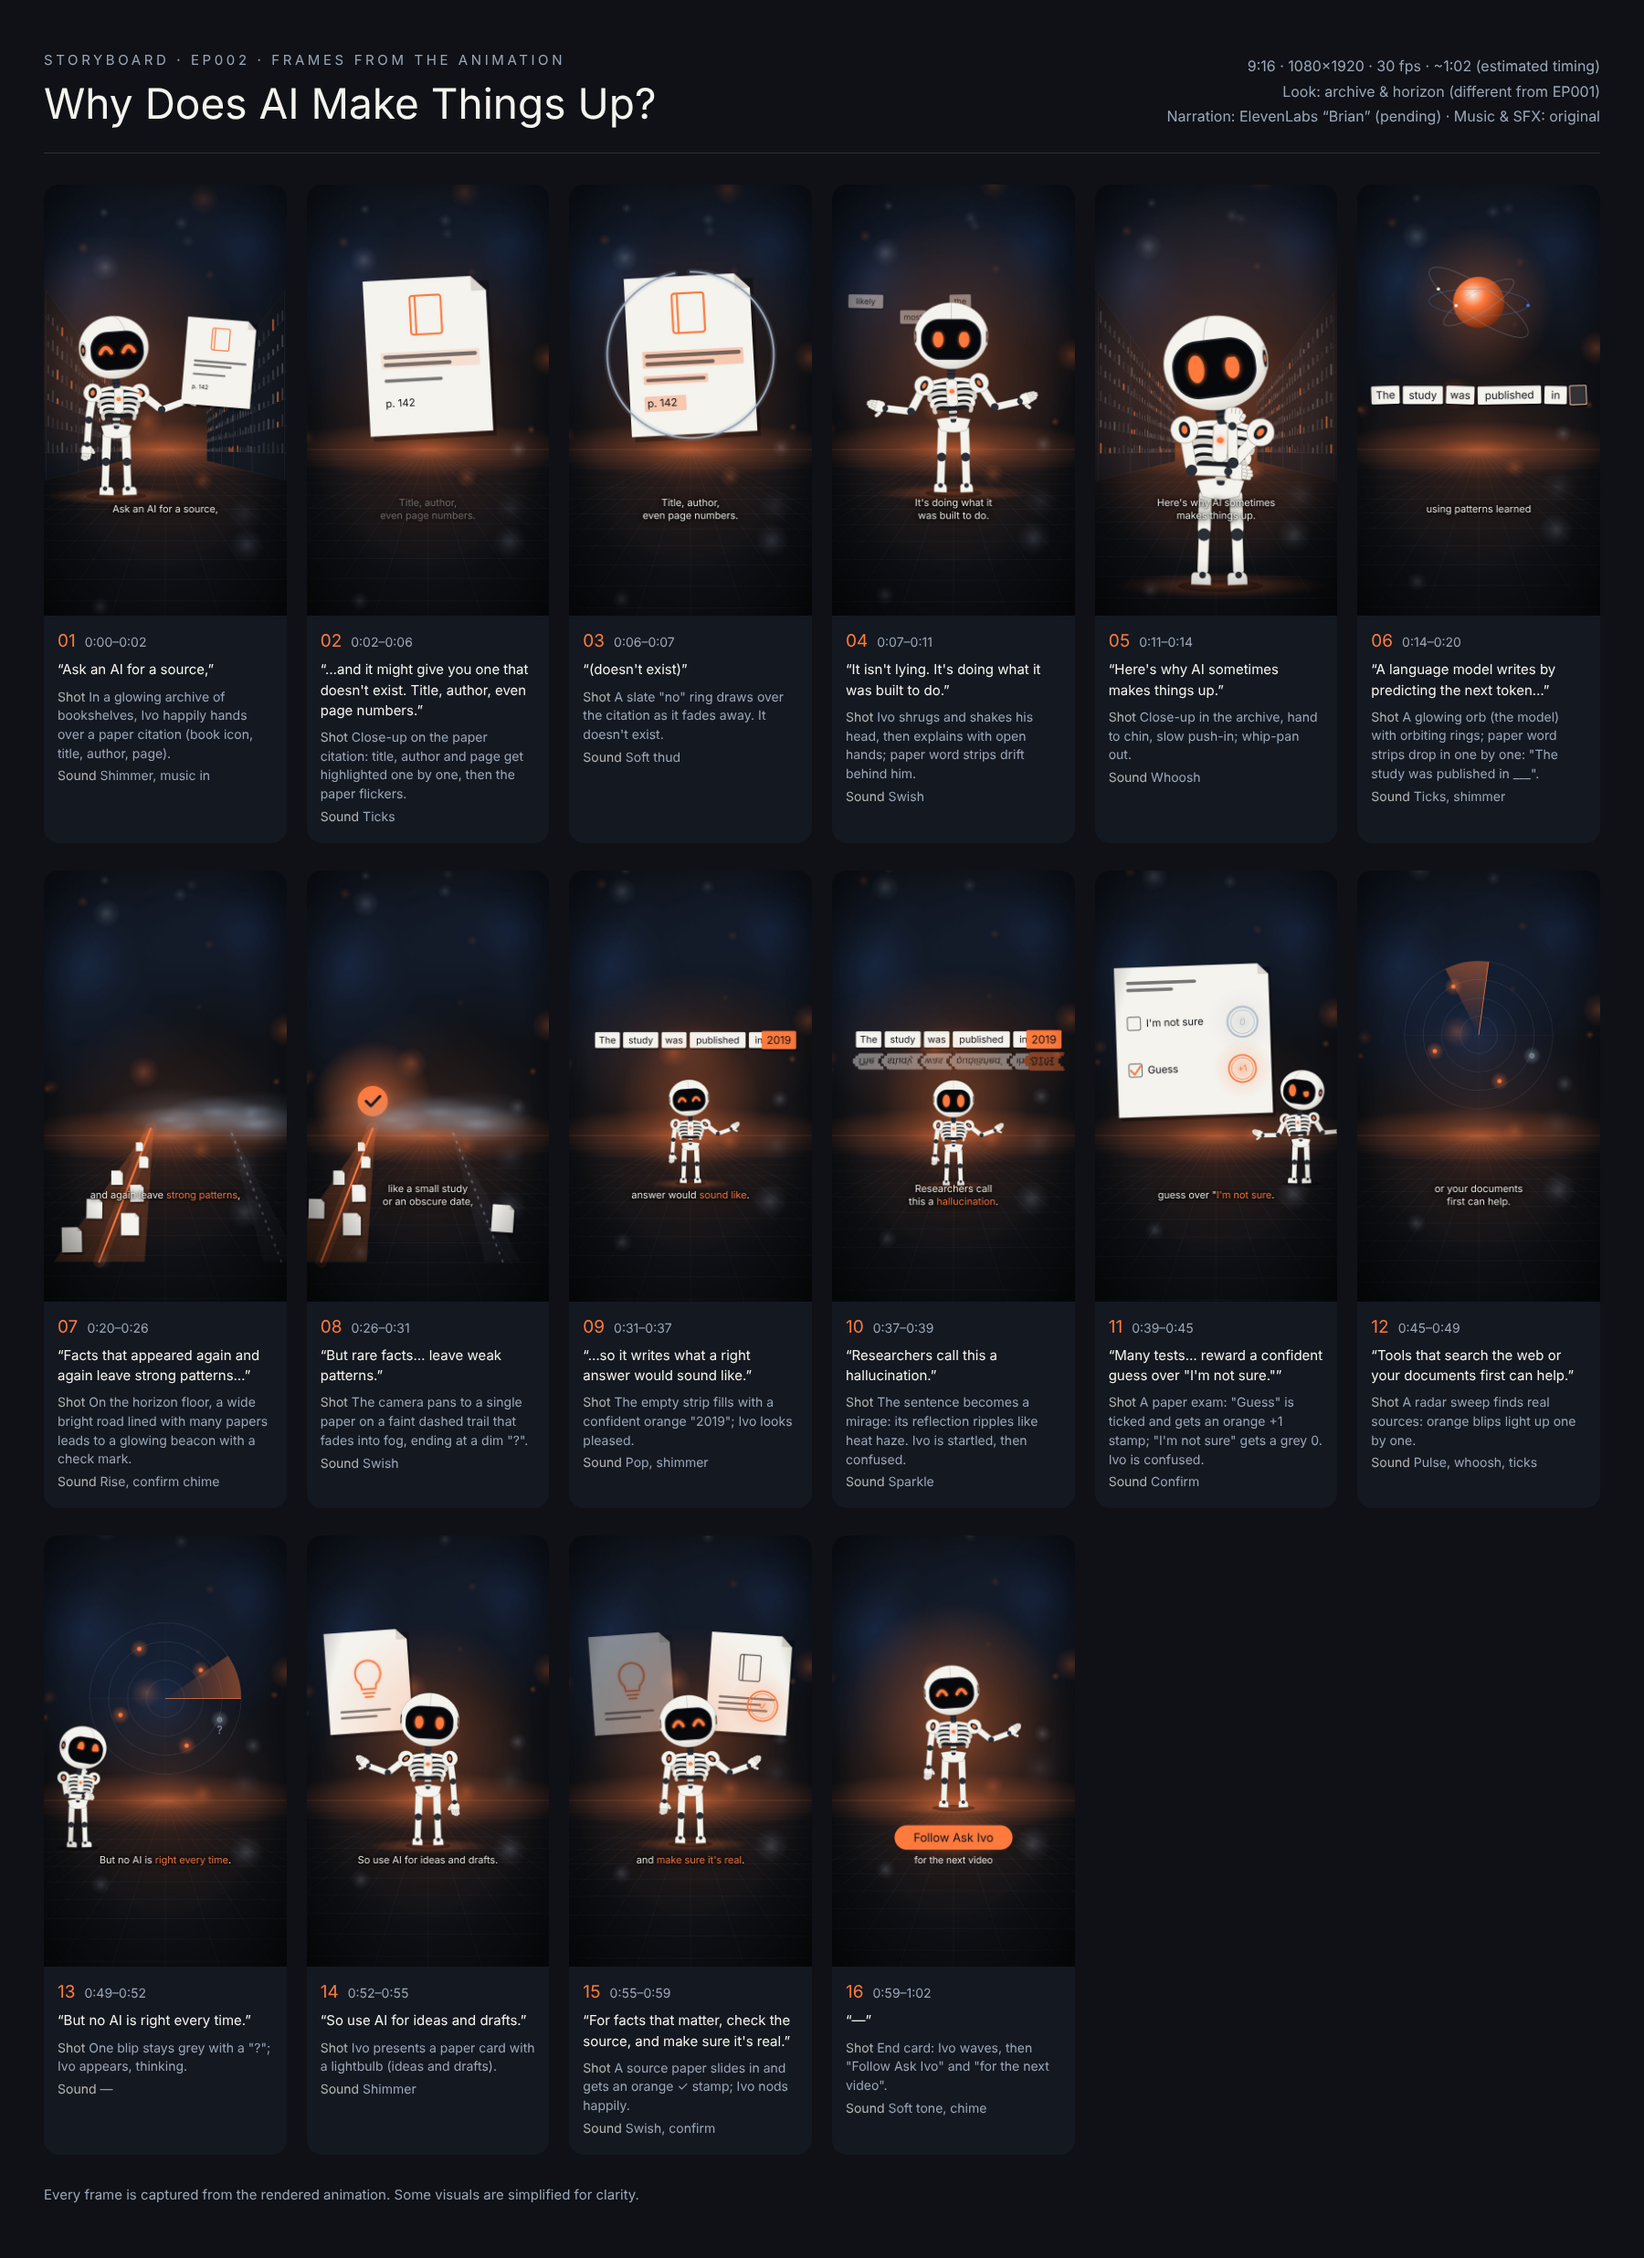
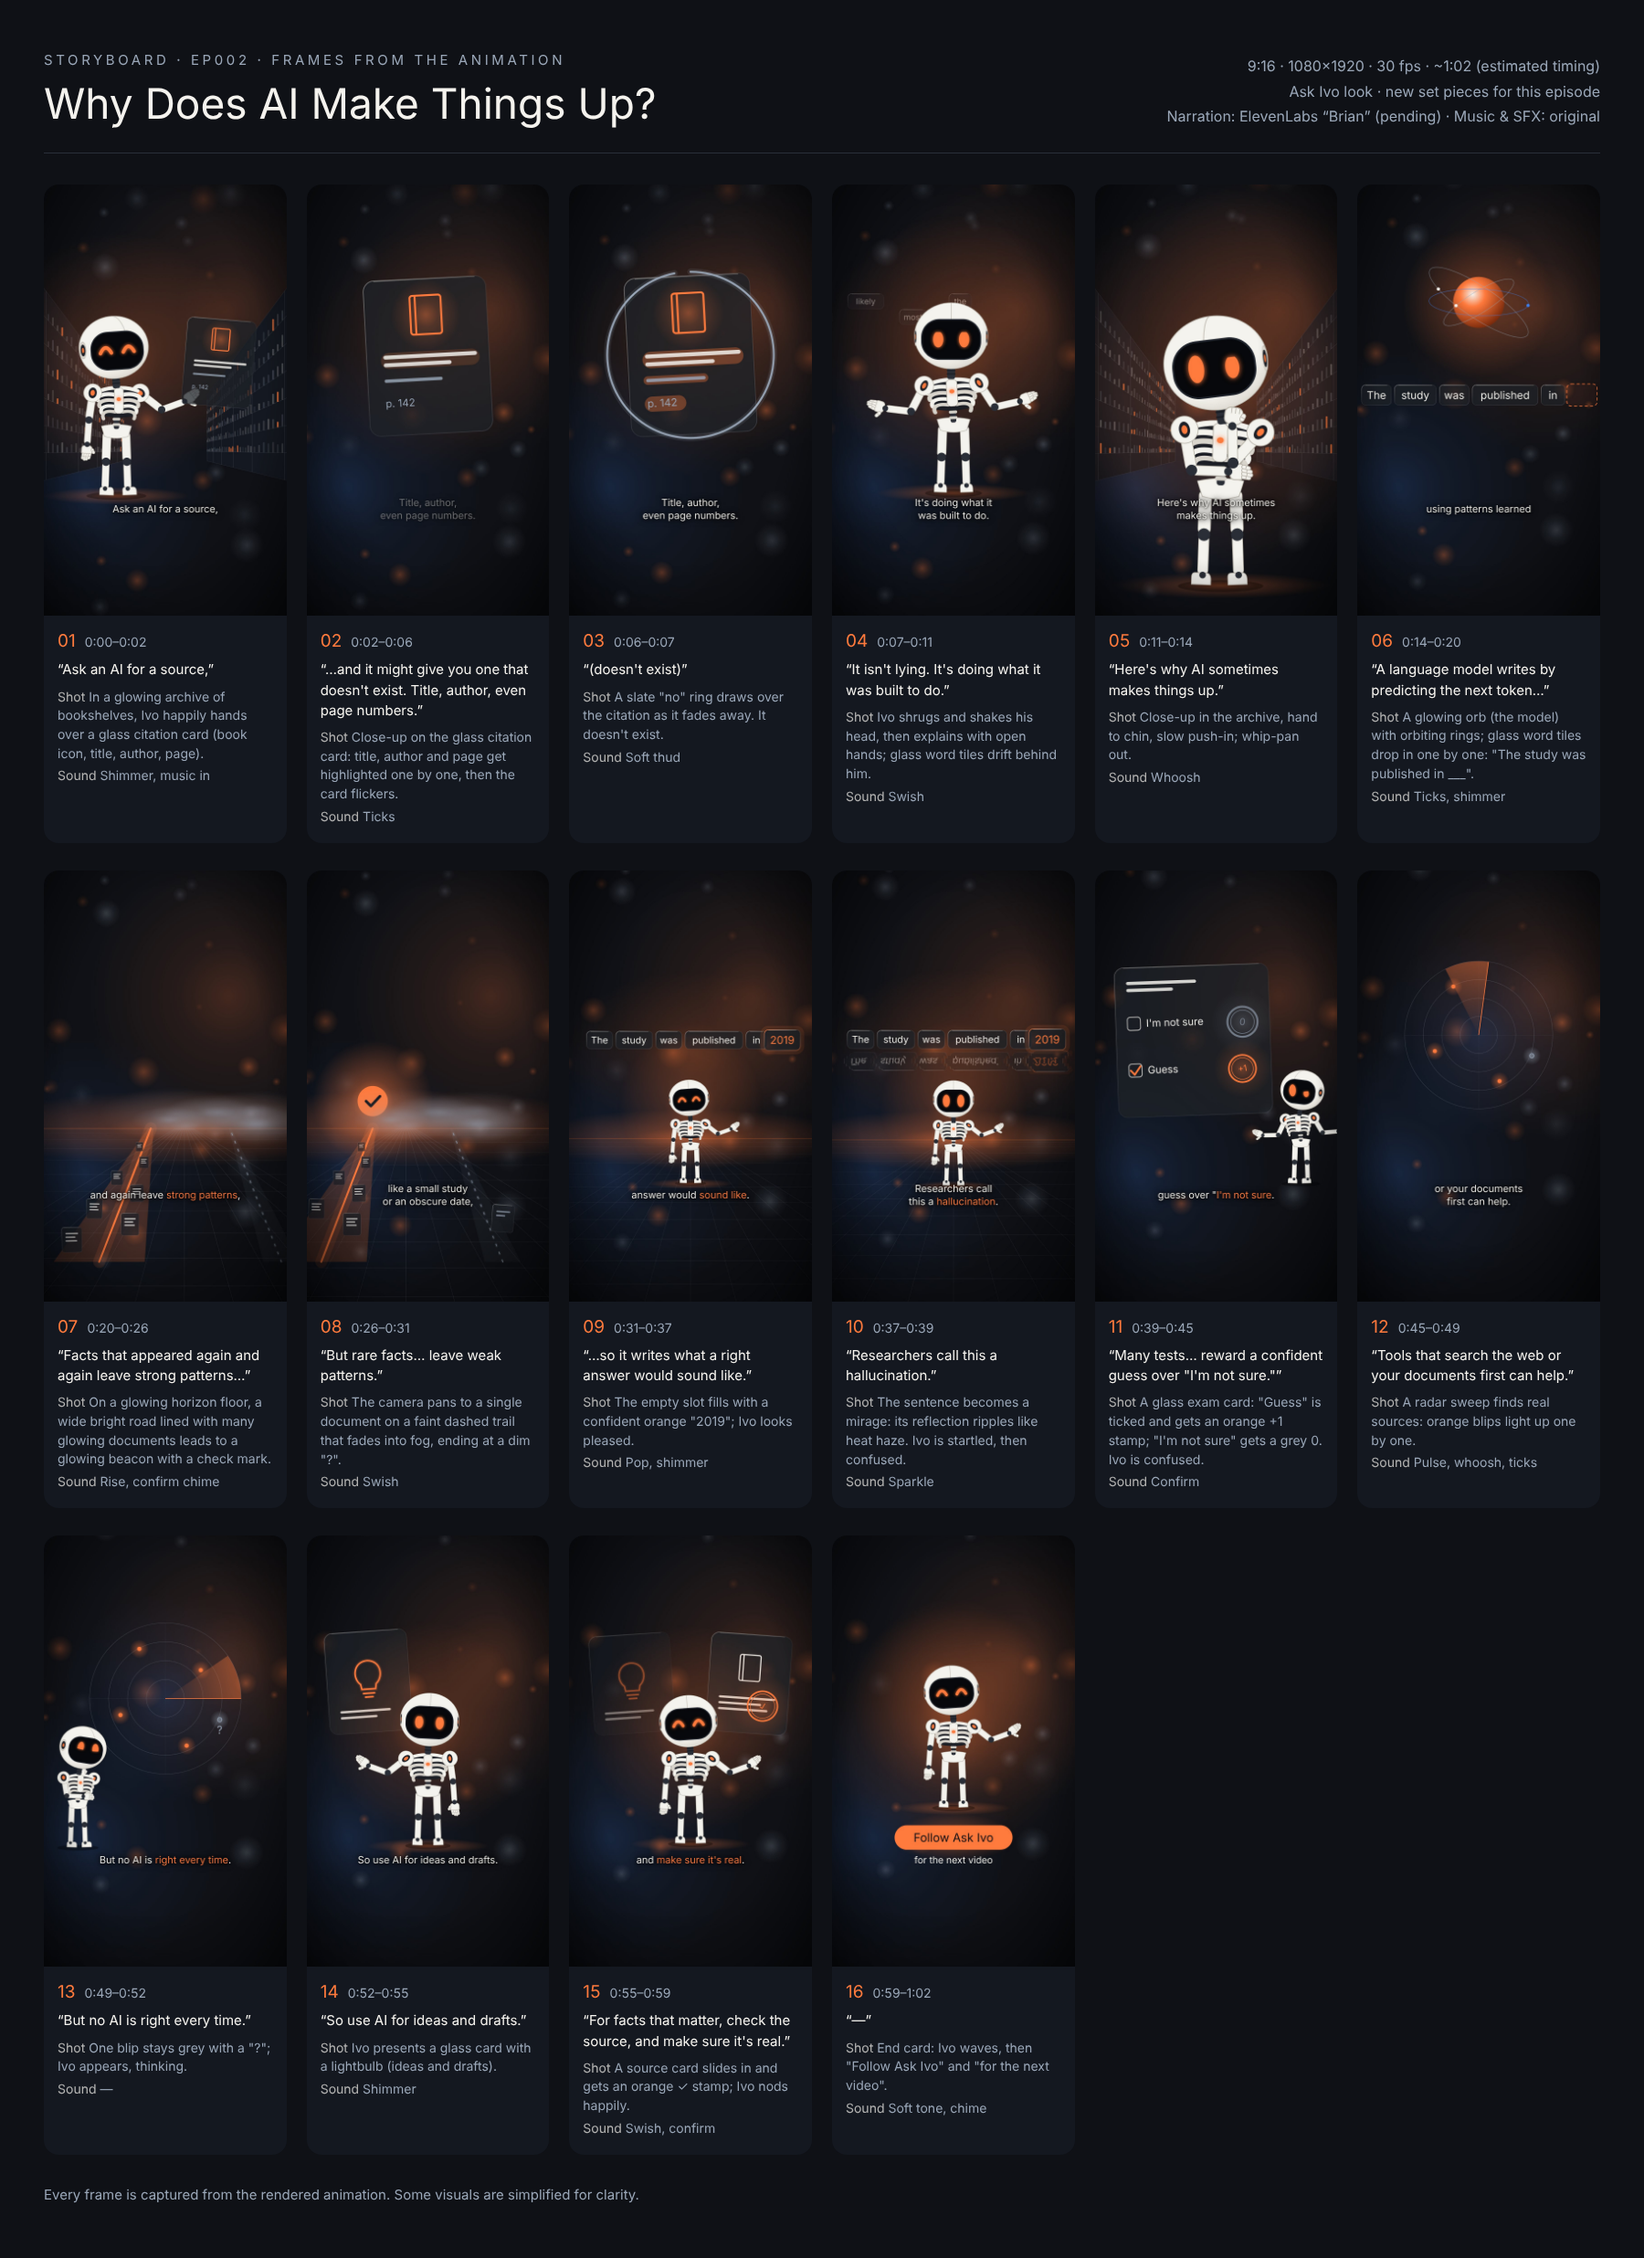
EP002: back to brand glass look with episode-specific set pieces; document visual rule
Claude-Session: https://claude.ai/code/session_013Lp6yPYJ2WJ6tLkaBiizVH

diff --git a/episodes/ep002-ai-makes-things-up/episode.js b/episodes/ep002-ai-makes-things-up/episode.js
@@ -1,37 +1,34 @@
 // EP002 — Why Does AI Make Things Up?
-// Visual family: "archive & horizon" (paper, perspective floor, shelves, roads, mirage, radar),
-// deliberately different from EP001's glass panels and server corridor.
+// Same brand look as EP001 (glass, neon, warm/cool light, bokeh) with episode-specific set pieces:
+// archive shelves, model orb, bright road vs faint trail, mirage, exam, radar.
 import { createEpisode } from '/templates/episode-kit.js';
 import * as P from '/scenes/fx2.js';
 
-const E = await createEpisode('ep002-ai-makes-things-up', {
-  atmosphere: { seed: 12, warm: [[540, 1180, 560]], cool: [[180, 420, 620], [920, 260, 520]], bokeh: 18 },
-});
-const { st, C, svg, tl, L, phraseAt, bgLayer, scene, cut, open, ivo, blinks, draw, noMark, endCard, finish, A, K, F } = E;
+const E = await createEpisode('ep002-ai-makes-things-up', { atmosphere: { seed: 12 } });
+const { st, C, svg, tl, L, phraseAt, scene, cut, open, ivo, blinks, draw, noMark, endCard, finish, A, K, F } = E;
 
-// world: perspective floor shared by every scene (horizon at screen y 1180 = scene y 1060)
-const floor = P.horizonGrid(bgLayer, svg, C, { horizon: 1180 });
-st.onFrame((t) => floor.update(t));
-const HZ = 1060;
+const HZ = 1060; // horizon line for the scenes that use a floor (scene coordinates)
+function localFloor(g) { const f = P.horizonGrid(g, svg, C, { horizon: HZ }); st.onFrame((t) => f.update(t)); return f; }
 
 // ---------- local builders ----------
 function citation(g, { x, y, s = 1, tilt = -4 }) {
   const root = K.el('g', {}, g);
   const n = st.node(root, { x, y, s, r: tilt, o: 0 });
   const c = K.el('g', { transform: 'translate(-190,-240)' }, root);
-  P.paper(c, C, { x: 0, y: 0, w: 380, h: 480 });
+  F.glass(c, svg, C, { x: 0, y: 0, w: 380, h: 480, r: 34 });
   const book = K.el('g', { transform: 'translate(190,112)' }, c);
+  F.glow(book, svg, C.orange, { x: 0, y: 0, r: 110, opacity: 0.45 });
   K.el('rect', { x: -48, y: -60, width: 96, height: 120, rx: 8, fill: 'none', stroke: C.orange, 'stroke-width': 6 }, book);
   K.el('line', { x1: -32, y1: -60, x2: -32, y2: 60, stroke: C.orange, 'stroke-width': 6 }, book);
-  const mark = (yy, w, h) => K.el('rect', { x: 44, y: yy - 8, width: w + 16, height: h + 16, rx: 4, fill: C.orange, opacity: 0 }, c);
+  const mark = (yy, w, h) => K.el('rect', { x: 44, y: yy - 8, width: w + 16, height: h + 16, rx: (h + 16) / 2, fill: C.orange, opacity: 0 }, c);
   const hi = [mark(232, 290, 34), mark(306, 180, 10), mark(368, 110, 30)];
-  P.ink(c, C, 52, 232, [290, 210], { gap: 24, h: 12 });
-  P.ink(c, C, 52, 306, [180], { h: 10 });
-  K.text(c, 52, 392, 'p. 142', { size: 32, anchor: 'start', fill: C.bg }, C);
+  K.lines(c, 52, 232, [290, 210], { gap: 24, h: 12 }, C);
+  K.lines(c, 52, 306, [180], { h: 10, color: C.slate }, C);
+  K.text(c, 52, 392, 'p. 142', { size: 32, anchor: 'start', fill: C.slate }, C);
   return { n, hi };
 }
 function chipRow(g, words, { y, size = 42, slot = true, tilt = true }) {
-  const all = [...words, ...(slot ? [''] : [])].map((w, i) => P.paperChip(g, svg, C, w, { size, tilt: tilt ? ((i * 37) % 5) - 2 : 0 }));
+  const all = [...words, ...(slot ? [''] : [])].map((w) => F.tile(g, svg, C, w, { size, dashed: !w }));
   let cx = 0; const xs = [];
   all.forEach((m) => { xs.push(cx + m.w / 2); cx += m.w + 14; });
   const total = cx - 14;
@@ -83,7 +80,7 @@ const t3 = L['03'].start;
 {
   const drift = K.el('g', { opacity: 0.5 }, s3.g);
   const words = ['the', 'most', 'likely', 'next', 'word'];
-  const ch = words.map((w, i) => st.node(P.paperChip(drift, svg, C, w, { size: 36, tilt: (i % 3) - 1 }).g, { x: -150 - i * 210, y: 400 + (i % 2) * 70 }));
+  const ch = words.map((w, i) => st.node(F.tile(drift, svg, C, w, { size: 36 }).g, { x: -150 - i * 210, y: 400 + (i % 2) * 70 }));
   const r = ivo(s3.g, { x: 540, y: 1250, scale: 1.15 }, { t0: t2 - 0.3, t1: t3, expr: 'neutral' });
   cut(s2, s3, t2, 'push', 0.3);
   ch.forEach((n) => tl.to(n, { x: n.x + 1500, duration: t3 - t2 + 0.6, ease: 'none' }, t2 - 0.3));
@@ -138,10 +135,11 @@ const s6 = scene();
 const t6b = phraseAt('06', 'The model still');
 {
   const g = s6.g;
+  localFloor(g);
   P.road(g, svg, C, { x0: 260, y0: 1500, x1: 430, y1: HZ, w0: 300, w1: 18, bright: true });
   const sheets = Array.from({ length: 7 }, (_, i) => {
     const f = i / 7, x = 260 + (430 - 260) * f + (i % 2 ? 90 : -90) * (1 - f), y = 1430 - (1430 - HZ - 10) * f, s = 0.55 * (1 - f * 0.75);
-    const sg = K.el('g', {}, g); P.paper(sg, C, { x: -60, y: -80, w: 120, h: 150, fold: 26 });
+    const sg = K.el('g', {}, g); F.glass(sg, svg, C, { x: -60, y: -80, w: 120, h: 150, r: 14 }); K.lines(sg, -38, -46, [76, 60, 70], { gap: 22, h: 8 }, C);
     return st.node(sg, { x, y, s, o: 0, r: (i % 3) - 1 });
   });
   const beacon = K.el('g', {}, g); const bN = st.node(beacon, { x: 430, y: HZ - 90, o: 0, s: 0.4 });
@@ -149,7 +147,7 @@ const t6b = phraseAt('06', 'The model still');
   K.el('circle', { r: 50, fill: C.orange }, beacon);
   K.el('path', { d: 'M-22 0 L-6 16 L24 -16', fill: 'none', stroke: C.bg, 'stroke-width': 9, 'stroke-linecap': 'round', 'stroke-linejoin': 'round' }, beacon);
   P.road(g, svg, C, { x0: 860, y0: 1500, x1: 690, y1: HZ, w0: 120, w1: 8, bright: false });
-  const lone = K.el('g', {}, g); P.paper(lone, C, { x: -60, y: -80, w: 120, h: 150, fold: 26 }); const loneN = st.node(lone, { x: 860, y: 1360, s: 0.6, o: 0, r: 4 });
+  const lone = K.el('g', {}, g); F.glass(lone, svg, C, { x: -60, y: -80, w: 120, h: 150, r: 14 }); K.lines(lone, -38, -46, [76, 50], { gap: 22, h: 8, color: C.slate }, C); const loneN = st.node(lone, { x: 860, y: 1360, s: 0.6, o: 0, r: 4 });
   P.fog(g, svg, C, { x: 700, y: HZ - 30, w: 420, opacity: 0.9 });
   const dim = K.el('g', {}, g); const dimN = st.node(dim, { x: 690, y: HZ - 80, o: 0 });
   K.el('circle', { r: 34, fill: 'none', stroke: C.slate, 'stroke-width': 5 }, dim);
@@ -174,17 +172,18 @@ const s7 = scene();
 const t8 = L['08'].start;
 {
   const g = s7.g;
+  localFloor(g);
   F.glow(g, svg, C.orange, { x: 540, y: 680, r: 560, sy: 0.6, opacity: 0.25 });
   const rowY = 640;
   const words = ['The', 'study', 'was', 'published', 'in'];
   const chips = chipRow(g, words, { y: rowY, size: 40, tilt: false });
   const slot = chips.at(-1);
-  const ans = P.paperChip(g, svg, C, '2019', { size: 46, accent: true });
+  const ans = F.tile(g, svg, C, '2019', { size: 46, accent: true });
   const ansN = st.node(ans.g, { x: slot.x, y: rowY, o: 0 });
   // mirage: a rippling reflection of the whole sentence on the floor
   const mir = P.mirage(g, C, (into) => {
-    words.forEach((w, i) => { const c = P.paperChip(into, svg, C, w, { size: 40 }); c.g.setAttribute('transform', `translate(${chips[i].x},${rowY})`); });
-    const a = P.paperChip(into, svg, C, '2019', { size: 46, accent: true }); a.g.setAttribute('transform', `translate(${slot.x},${rowY})`);
+    words.forEach((w, i) => { const c = F.tile(into, svg, C, w, { size: 40 }); c.g.setAttribute('transform', `translate(${chips[i].x},${rowY})`); });
+    const a = F.tile(into, svg, C, '2019', { size: 46, accent: true }); a.g.setAttribute('transform', `translate(${slot.x},${rowY})`);
   }, { baseY: rowY + 46, bands: 9, bandH: 11 });
   st.onFrame((t) => mir.update(t));
   const r = ivo(g, { x: 540, y: 1250, scale: 0.6, yaw: 0 }, { t0: t6b - 0.4, t1: t8, expr: 'neutral' });
@@ -216,9 +215,9 @@ const t9 = L['09'].start;
 {
   const g = s8.g;
   const sheet = K.el('g', {}, g); st.node(sheet, { r: -2, ox: 440, oy: 640 });
-  P.paper(sheet, C, { x: 110, y: 320, w: 660, h: 640 });
-  P.ink(sheet, C, 160, 380, [300, 200], { gap: 30, h: 14 });
-  const box = (y, label) => { K.el('rect', { x: 160, y: y - 28, width: 56, height: 56, rx: 8, fill: 'none', stroke: C.bg, 'stroke-width': 4, opacity: 0.6 }, sheet); K.text(sheet, 240, y + 15, label, { size: 44, anchor: 'start', fill: C.bg }, C); };
+  F.glass(sheet, svg, C, { x: 110, y: 320, w: 660, h: 640, r: 40 });
+  K.lines(sheet, 160, 380, [300, 200], { gap: 30, h: 14 }, C);
+  const box = (y, label) => { K.el('rect', { x: 160, y: y - 28, width: 56, height: 56, rx: 12, fill: 'none', stroke: C.ivory, 'stroke-width': 4, opacity: 0.7 }, sheet); K.text(sheet, 240, y + 15, label, { size: 44, anchor: 'start', fill: C.ivory }, C); };
   box(560, "I'm not sure"); box(760, 'Guess');
   const tickG = K.el('path', { d: 'M168 760 L184 778 L210 742', fill: 'none', stroke: C.orange, 'stroke-width': 8, 'stroke-linecap': 'round', 'stroke-linejoin': 'round', 'stroke-dasharray': '0 999' }, sheet);
   const z = K.el('g', {}, g); const zN = st.node(z, { x: 650, y: 560, o: 0, s: 1.6 }); P.stamp(z, svg, C, '0', { r: 54, color: C.slate, rot: 8 });
@@ -272,17 +271,17 @@ const tCard = L['10'].end + 0.15;
 {
   const g = s10.g;
   const left = K.el('g', {}, g); const leftN = st.node(left, { o: 0, r: -4, ox: 280, oy: 540 });
-  P.paper(left, C, { x: 100, y: 320, w: 360, h: 440 });
+  F.glass(left, svg, C, { x: 100, y: 320, w: 360, h: 440, r: 36 });
   const bulb = K.el('g', { transform: 'translate(280,520)' }, left);
   F.neon(bulb, 'M-34 30 C-70 0 -60 -70 0 -72 C60 -70 70 0 34 30 L30 52 L-30 52 Z', C.orange, { w: 7, halo: 18 });
   F.neon(bulb, 'M-24 70 L24 70 M-16 86 L16 86', C.orange, { w: 7, halo: 14 });
-  P.ink(left, C, 150, 660, [220, 160], { gap: 26, h: 10 });
+  K.lines(left, 150, 660, [220, 160], { gap: 26, h: 10 }, C);
   const right = K.el('g', {}, g); const rightN = st.node(right, { o: 0, r: 4, ox: 800, oy: 540 });
-  P.paper(right, C, { x: 620, y: 320, w: 360, h: 440 });
+  F.glass(right, svg, C, { x: 620, y: 320, w: 360, h: 440, r: 36 });
   const bk = K.el('g', { transform: 'translate(800,470)' }, right);
-  K.el('rect', { x: -46, y: -58, width: 92, height: 116, rx: 8, fill: 'none', stroke: C.bg, 'stroke-width': 5, opacity: 0.7 }, bk);
-  K.el('line', { x1: -30, y1: -58, x2: -30, y2: 58, stroke: C.bg, 'stroke-width': 5, opacity: 0.7 }, bk);
-  P.ink(right, C, 670, 600, [250, 190, 220], { gap: 26, h: 10 });
+  K.el('rect', { x: -46, y: -58, width: 92, height: 116, rx: 8, fill: 'none', stroke: C.ivory, 'stroke-width': 5 }, bk);
+  K.el('line', { x1: -30, y1: -58, x2: -30, y2: 58, stroke: C.ivory, 'stroke-width': 5 }, bk);
+  K.lines(right, 670, 600, [250, 190, 220], { gap: 26, h: 10 }, C);
   const st1 = K.el('g', {}, g); const stN = st.node(st1, { x: 860, y: 640, o: 0, s: 1.7 }); P.stamp(st1, svg, C, '✓', { r: 66, rot: -14 });
   const r = ivo(g, { x: 540, y: 1250, scale: 0.9 }, { t0: t10 - 0.3, t1: tCard, expr: 'explaining' });
   cut(s9, s10, t10, 'push', 0.32);

diff --git a/documentation/04-production-guide.md b/documentation/04-production-guide.md
@@ -28,6 +28,13 @@ renders/<slug>/           master_clean.mp4, master_captioned.mp4, captions.srt, 
 8. **Human QC + final approval** using `renders/<slug>/qc-report.md`. **(approval)**
 9. **Publishing** is manual, done by the owner. See below.
 
+## Visual rule: one brand look, new scenes every episode
+- **Always the same:** Ask Ivo look. That means the palette, Inter 400, glass panels, neon glow, warm orange and cool blue light, bokeh atmosphere, Ivo, the subtitle style, and the "Follow Ask Ivo" end card.
+- **Never the same:** the set pieces and compositions. Each episode needs its own visual metaphors and environments, so episodes don't look templated. This also protects against "repetitive content" policies.
+  - EP001: chat window, filing cabinet, globe, server corridor, chip, neural network, probability bars, magnifier.
+  - EP002: archive shelves, model orb, bright road vs faint trail in fog, mirage reflection, exam card with stamps, radar sweep.
+- Keep a list of set pieces already used (above), and pick new ones for each episode. `scenes/fx.js` and `scenes/fx2.js` are building blocks, not fixed scenes.
+
 ## Quick commands
 - Preview the animation live in a browser: serve the repo root and open `/episodes/<slug>/composition.html?play`.
 - Spot-check frames: `node tools/contact-sheet.mjs episodes/<slug>/composition.html out.png 1,5,10,20 4`.
